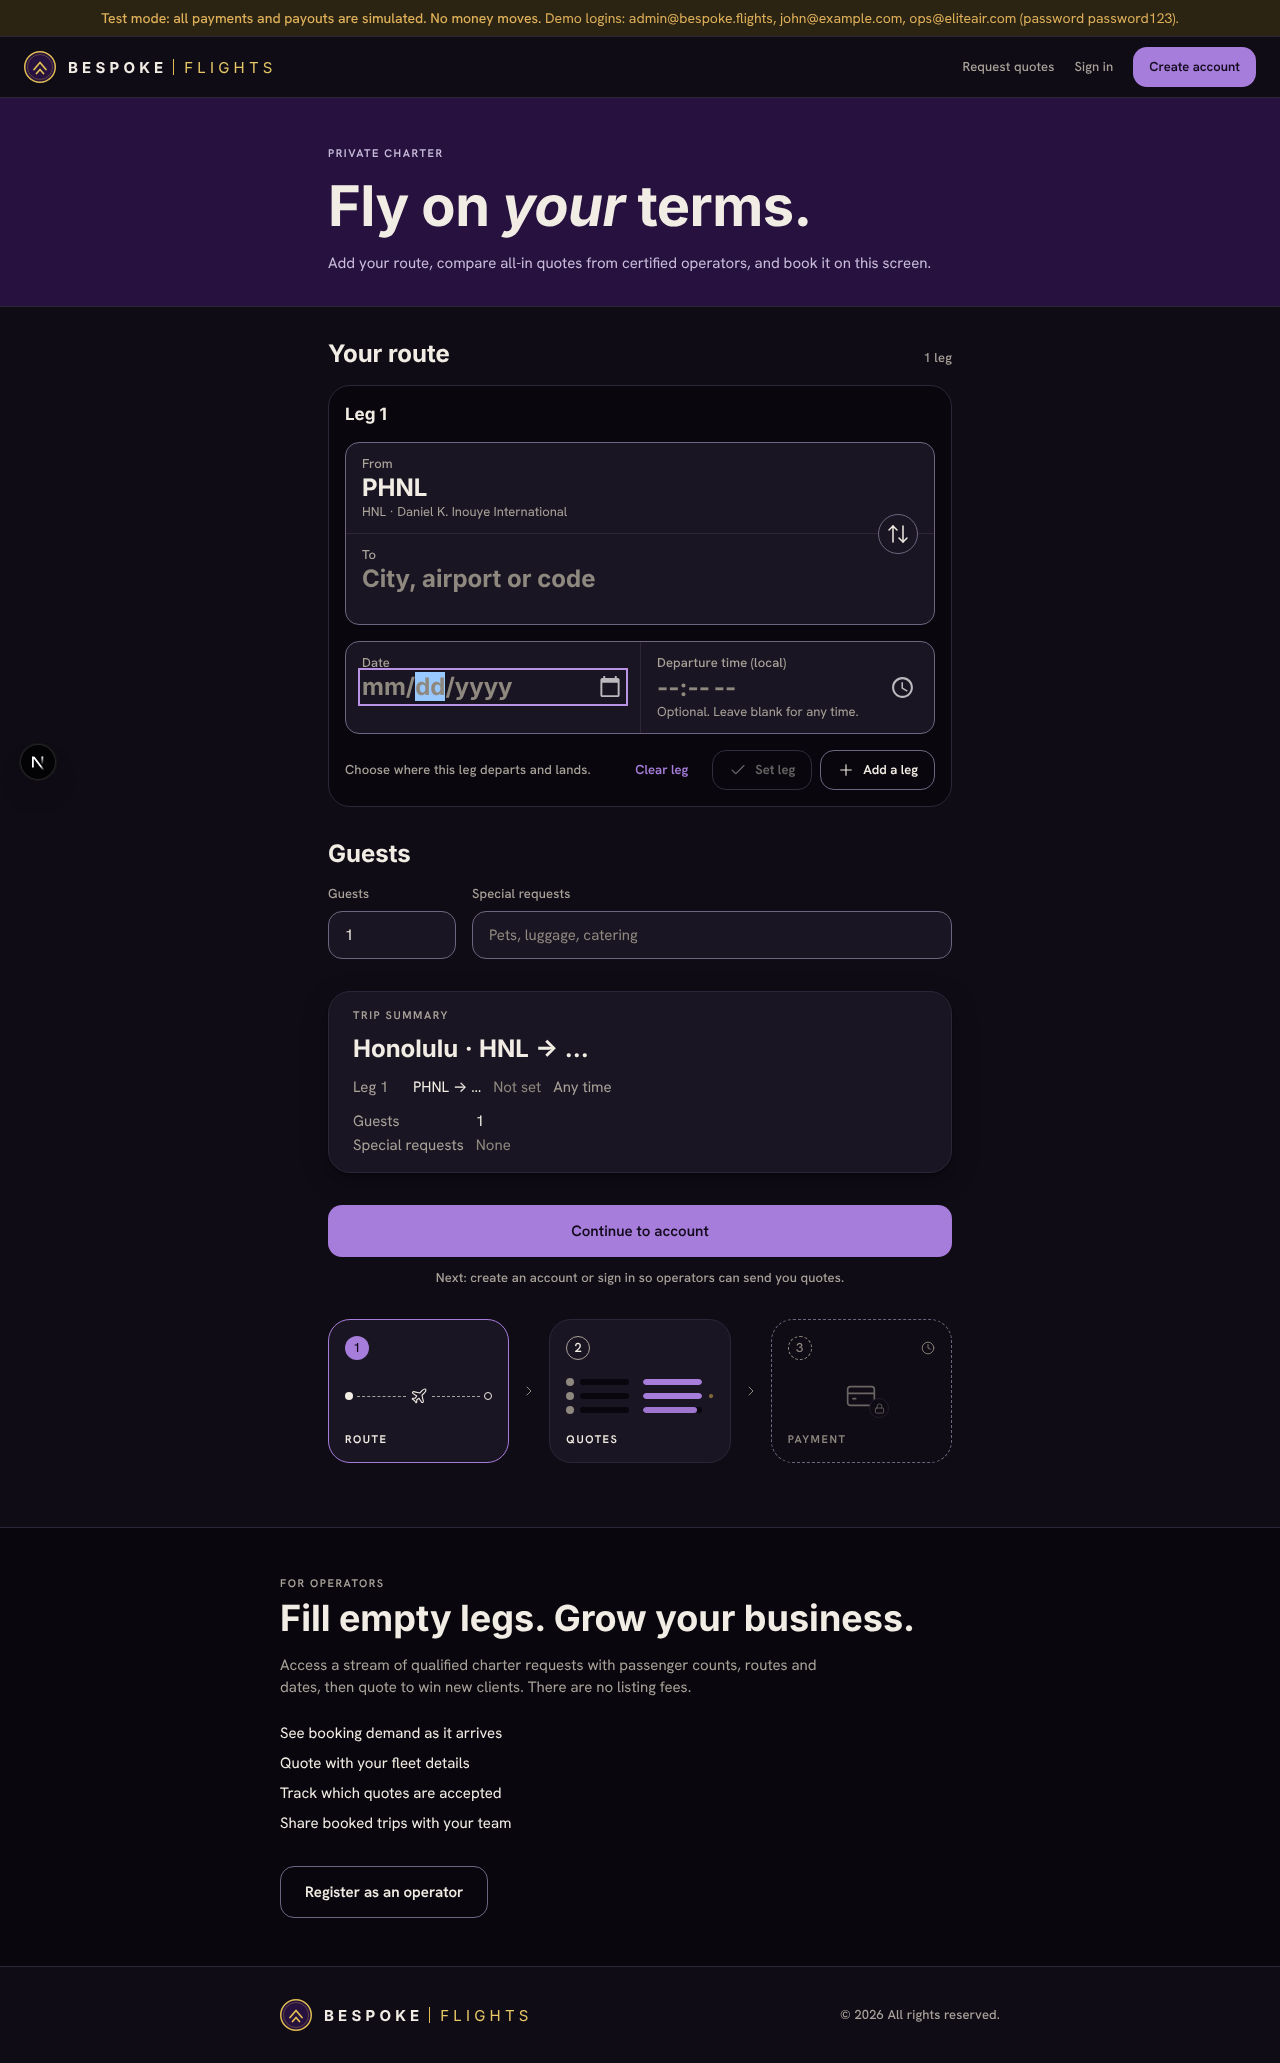
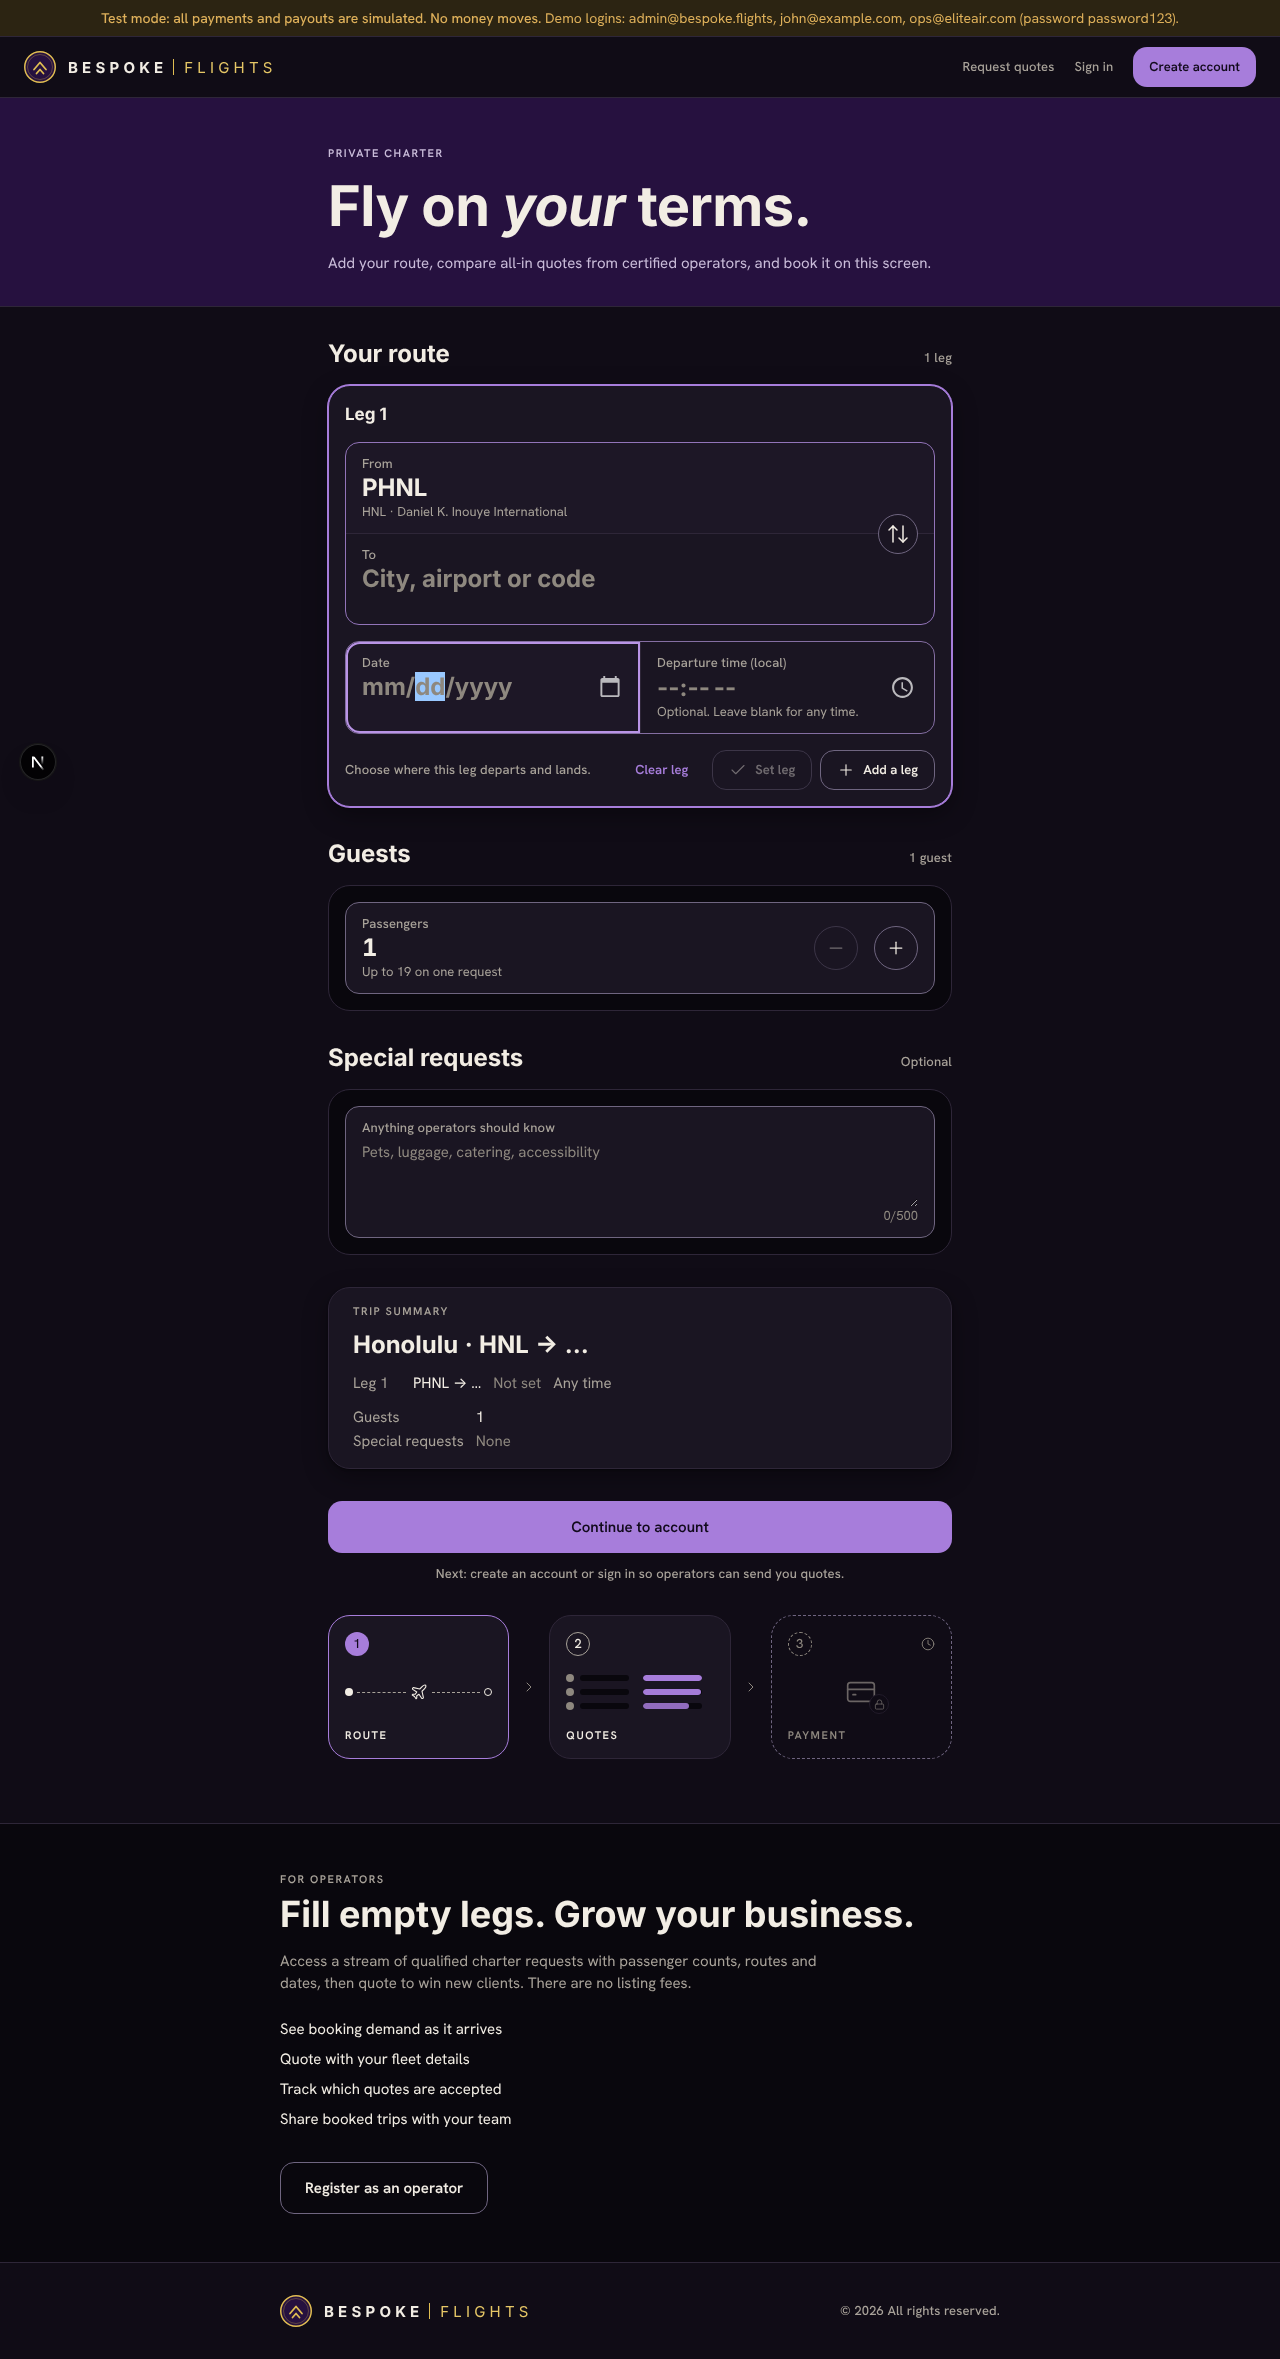
Booking form: Special requests as its own section; focus states per part and per field
- Guests and Special requests are separate sections in the leg-card style:
  a passenger stepper and a free-text field with a character count, each in
  a raised field with the label inside.
- .form-part (leg, guests, special requests) lifts with a royal border while
  anything inside it has focus; .field-card turns its border royal; the
  focused .field-cell (From, To, Date, Time, Passengers, Requests) carries
  the focus ring and a light tint.
- Visual check accepts a ring on the enclosing field cell.

Claude-Session: https://claude.ai/code/session_01NBnVCVm2h7hekYMdk9f3C3

diff --git a/src/components/booking/trip-extras.tsx b/src/components/booking/trip-extras.tsx
@@ -1,0 +1,68 @@
+'use client';
+
+import { useId } from 'react';
+import { Minus, Plus } from 'lucide-react';
+
+export const MAX_GUESTS = 19;
+export const MAX_REQUEST_CHARS = 500;
+
+const stepButton =
+  'relative flex size-11 shrink-0 items-center justify-center rounded-pill border border-border-control text-ink ' +
+  'transition-colors duration-200 ease-out hover:bg-surface-sunken cursor-pointer disabled:cursor-not-allowed disabled:opacity-40';
+
+/** Guests: a stepper in the same raised field style as the route. */
+export function GuestsField({ value, onChange }: { value: number; onChange: (n: number) => void }) {
+  const id = useId();
+  const clamp = (n: number) => Math.min(MAX_GUESTS, Math.max(1, Math.round(n) || 1));
+  return (
+    <div className="field-card rounded-md border border-border-control bg-surface-raised">
+      <div className="field-cell flex items-center gap-4 rounded-md px-4 py-3">
+        <div className="min-w-0 flex-1">
+          <label htmlFor={id} className="block text-label text-ink-muted">Passengers</label>
+          <input
+            id={id}
+            type="number"
+            inputMode="numeric"
+            min={1}
+            max={MAX_GUESTS}
+            value={value}
+            onChange={e => onChange(clamp(Number(e.target.value)))}
+            className="block w-full bg-transparent text-title text-ink tabular-nums [appearance:textfield] [&::-webkit-inner-spin-button]:appearance-none [&::-webkit-outer-spin-button]:appearance-none"
+          />
+          <p className="min-h-[18px] text-[13px] leading-[18px] text-ink-muted">Up to {MAX_GUESTS} on one request</p>
+        </div>
+        <button type="button" className={stepButton} aria-label="Remove a passenger" onClick={() => onChange(clamp(value - 1))} disabled={value <= 1}>
+          <Minus size={20} strokeWidth={1.5} aria-hidden="true" />
+        </button>
+        <button type="button" className={stepButton} aria-label="Add a passenger" onClick={() => onChange(clamp(value + 1))} disabled={value >= MAX_GUESTS}>
+          <Plus size={20} strokeWidth={1.5} aria-hidden="true" />
+        </button>
+      </div>
+    </div>
+  );
+}
+
+/** Special requests: free text in the same raised field style. */
+export function RequestsField({ value, onChange }: { value: string; onChange: (s: string) => void }) {
+  const id = useId();
+  return (
+    <div className="field-card rounded-md border border-border-control bg-surface-raised">
+      <div className="field-cell rounded-md px-4 py-3">
+        <label htmlFor={id} className="block text-label text-ink-muted">Anything operators should know</label>
+        <textarea
+          id={id}
+          rows={3}
+          maxLength={MAX_REQUEST_CHARS}
+          value={value}
+          placeholder="Pets, luggage, catering, accessibility"
+          onChange={e => onChange(e.target.value)}
+          aria-describedby={`${id}-count`}
+          className="mt-1 block w-full resize-y bg-transparent text-body text-ink placeholder:text-ink-subtle"
+        />
+        <p id={`${id}-count`} className="text-right text-[13px] leading-[18px] text-ink-subtle tabular-nums">
+          {value.length}/{MAX_REQUEST_CHARS}
+        </p>
+      </div>
+    </div>
+  );
+}

diff --git a/src/components/booking/multi-leg-form.tsx b/src/components/booking/multi-leg-form.tsx
@@ -3,11 +3,11 @@
 import { useEffect, useMemo, useRef, useState } from 'react';
 import { useRouter } from 'next/navigation';
 import { Notice } from '@/components/ui/notice';
-import { Input } from '@/components/ui/input';
 import { Button } from '@/components/ui/button';
 import { AccountStep } from '@/components/booking/account-step';
 import { LegCard, legIsComplete } from '@/components/booking/leg-card';
 import { NextSteps } from '@/components/booking/next-steps';
+import { GuestsField, RequestsField } from '@/components/booking/trip-extras';
 import { formatLandUnits, formatNm, tripDistance } from '@/lib/distance';
 import { TripDetails } from '@/components/booking/trip-details';
 import { fromDraftLegs } from '@/lib/trip-format';
@@ -254,24 +254,25 @@ export function MultiLegForm({
         )}
       </section>
 
-      {/* Passengers and notes */}
+      {/* Guests */}
       <section id="guests-section" aria-labelledby="guests-heading" className="space-y-4">
-        <h2 id="guests-heading" className="text-title text-ink">Guests</h2>
-        <div className="grid grid-cols-1 gap-4 sm:grid-cols-[8rem_1fr]">
-          <Input
-            label="Guests"
-            type="number"
-            min={1}
-            max={19}
-            value={passengerCount}
-            onChange={e => setPassengerCount(Number(e.target.value))}
-          />
-          <Input
-            label="Special requests"
-            placeholder="Pets, luggage, catering"
-            value={notes}
-            onChange={e => setNotes(e.target.value)}
-          />
+        <div className="flex items-baseline justify-between gap-3">
+          <h2 id="guests-heading" className="text-title text-ink">Guests</h2>
+          <span className="text-label text-ink-muted tabular-nums">{passengerCount} {passengerCount === 1 ? 'guest' : 'guests'}</span>
+        </div>
+        <div id="guests-card" className="form-part rounded-lg border border-hairline bg-surface-sunken p-4">
+          <GuestsField value={passengerCount} onChange={setPassengerCount} />
+        </div>
+      </section>
+
+      {/* Special requests */}
+      <section id="requests-section" aria-labelledby="requests-heading" className="space-y-4">
+        <div className="flex items-baseline justify-between gap-3">
+          <h2 id="requests-heading" className="text-title text-ink">Special requests</h2>
+          <span className="text-label text-ink-muted">Optional</span>
+        </div>
+        <div id="requests-card" className="form-part rounded-lg border border-hairline bg-surface-sunken p-4">
+          <RequestsField value={notes} onChange={setNotes} />
         </div>
       </section>
 

diff --git a/src/components/ui/route-field.tsx b/src/components/ui/route-field.tsx
@@ -17,7 +17,7 @@ interface AirportFieldProps {
  * (upper-cased) until an airport is chosen, then its ICAO code. Accepts city,
  * airport name, IATA or ICAO.
  */
-function AirportField({ label, value, onChange, readOnly, required }: AirportFieldProps) {
+function AirportField({ label, value, onChange, readOnly, required, cellClass = '' }: AirportFieldProps & { cellClass?: string }) {
   const id = useId();
   const listId = `${id}-list`;
   const [open, setOpen] = useState(false);
@@ -59,7 +59,7 @@ function AirportField({ label, value, onChange, readOnly, required }: AirportFie
   };
 
   return (
-    <div className="relative px-4 py-3 pr-16">
+    <div className={`field-cell relative px-4 py-3 pr-16 ${cellClass}`}>
       <label htmlFor={id} className="block text-label text-ink-muted">{label}</label>
       <input
         id={id}
@@ -136,10 +136,10 @@ export function RouteField({
   originLocked?: boolean;
 }) {
   return (
-    <div className="relative rounded-md border border-border-control bg-surface-raised">
-      <AirportField label="From" value={origin} onChange={onOriginChange} readOnly={originLocked} required />
+    <div className="field-card relative rounded-md border border-border-control bg-surface-raised">
+      <AirportField label="From" value={origin} onChange={onOriginChange} readOnly={originLocked} required cellClass="rounded-t-md" />
       <div className="border-t border-hairline" />
-      <AirportField label="To" value={destination} onChange={onDestinationChange} required />
+      <AirportField label="To" value={destination} onChange={onDestinationChange} required cellClass="rounded-b-md" />
       <button
         type="button"
         aria-label="Swap origin and destination"

diff --git a/src/app/globals.css b/src/app/globals.css
@@ -212,6 +212,31 @@ h1, h2, h3, h4, h5, h6 {
   font-weight: 700;
 }
 
+/*
+ * Booking form focus, at two levels.
+ * .form-part   — a leg, Guests or Special requests: the whole part lifts and
+ *                takes a royal border while anything inside it has focus.
+ * .field-card  — a raised field group (route, schedule, guests, requests):
+ *                its border turns royal.
+ * .field-cell  — one field (From, To, Date, Time, …): it shows the focus ring
+ *                and a light tint, so the bare input inside needs no outline.
+ */
+.form-part, .field-card, .field-cell {
+  transition: border-color 200ms ease-out, box-shadow 200ms ease-out, background-color 200ms ease-out;
+}
+.form-part:focus-within {
+  border-color: var(--royal);
+  background-color: var(--surface-raised);
+  box-shadow: 0 0 0 1px var(--royal), var(--ds-shadow-raised);
+}
+.field-card:focus-within { border-color: var(--royal); }
+.field-cell:focus-within {
+  outline: 2px solid var(--focus);
+  outline-offset: -2px;
+  background-color: color-mix(in srgb, var(--royal) 6%, transparent);
+}
+.field-cell :is(input, textarea):focus-visible { outline: none; }
+
 /* Focus ring on every interactive element. */
 :focus-visible {
   outline: 2px solid var(--focus);

diff --git a/src/components/ui/schedule-field.tsx b/src/components/ui/schedule-field.tsx
@@ -27,8 +27,8 @@ export function ScheduleField({
   const timeId = idPrefix ? `${idPrefix}-time` : `${id}-time`;
 
   return (
-    <div className="grid grid-cols-1 rounded-md border border-border-control bg-surface-raised sm:grid-cols-2">
-      <div className="px-4 py-3">
+    <div className="field-card grid grid-cols-1 rounded-md border border-border-control bg-surface-raised sm:grid-cols-2">
+      <div className="field-cell rounded-t-md px-4 py-3 sm:rounded-l-md sm:rounded-tr-none">
         <label htmlFor={dateId} className="block text-label text-ink-muted">Date</label>
         <input
           id={dateId}
@@ -41,7 +41,7 @@ export function ScheduleField({
         />
         <p className="min-h-[18px] text-[13px] leading-[18px] text-ink-muted">{formatTripDate(date)}</p>
       </div>
-      <div className="border-t border-hairline px-4 py-3 sm:border-l sm:border-t-0">
+      <div className="field-cell rounded-b-md border-t border-hairline px-4 py-3 sm:rounded-r-md sm:rounded-bl-none sm:border-l sm:border-t-0">
         <label htmlFor={timeId} className="block text-label text-ink-muted">Departure time (local)</label>
         <input
           id={timeId}

diff --git a/src/components/booking/leg-card.tsx b/src/components/booking/leg-card.tsx
@@ -101,7 +101,7 @@ export function LegCard({
       id={base}
       role="group"
       aria-labelledby={`${base}-title`}
-      className="space-y-4 rounded-lg border border-hairline bg-surface-sunken p-4"
+      className="form-part space-y-4 rounded-lg border border-hairline bg-surface-sunken p-4"
     >
       <div id={`${base}-header`} className="flex items-center justify-between gap-3">
         <h3 id={`${base}-title`} className="text-heading text-ink">
